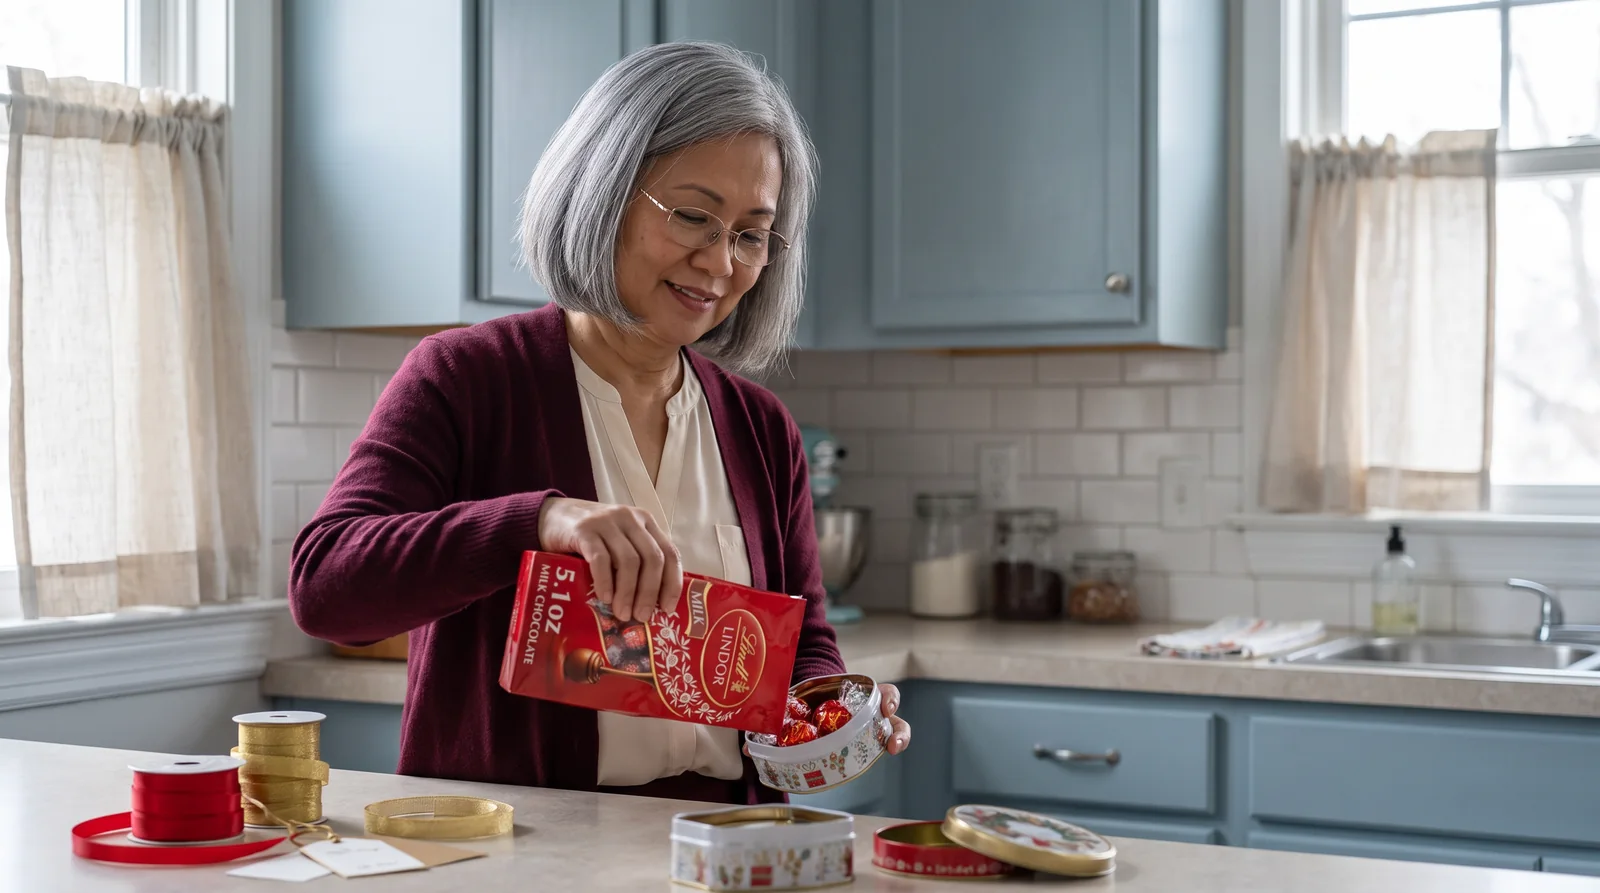
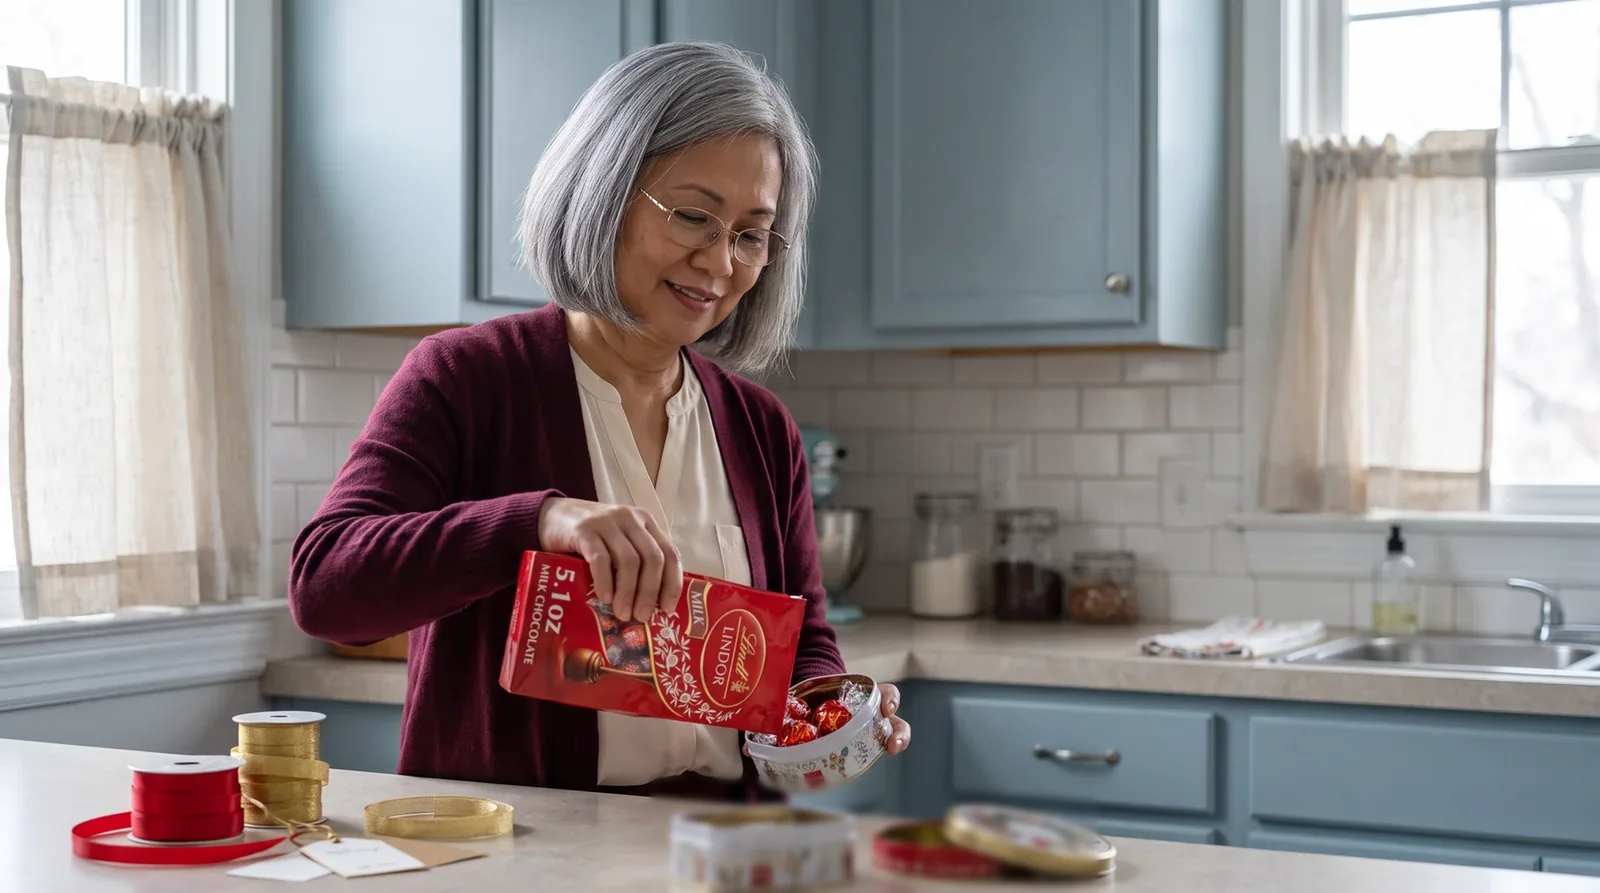
photos: is-lindt-chocolate-lab-grown recheck fixes

Changed region(s): [[0.4062, 0.8768, 0.6875, 0.9978], [0.4375, 0.9675, 0.4688, 1.0], [0.5, 0.9978, 0.5312, 1.0]]

diff --git a/blog-pipeline/photos-completed/is-lindt-chocolate-lab-grown.md b/blog-pipeline/photos-completed/is-lindt-chocolate-lab-grown.md
@@ -36,3 +36,6 @@ note: "Pale blue kitchen with subway tile and cafe curtains, Filipina woman in h
 - image_url: https://scan.ismyhometoxic.com/blog-images/islindtchoc-freedom-v1.webp
 - placement: final image before the closing scan CTA
 - completed: 2026-11-19T16:55:00
+
+## Recheck (Photo Claude) 2026-11-20
+Recheck: Gibberish on the tin bands softened.
